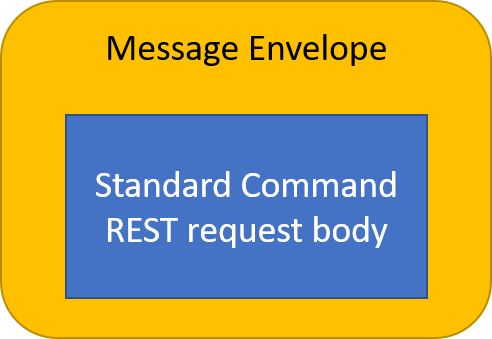
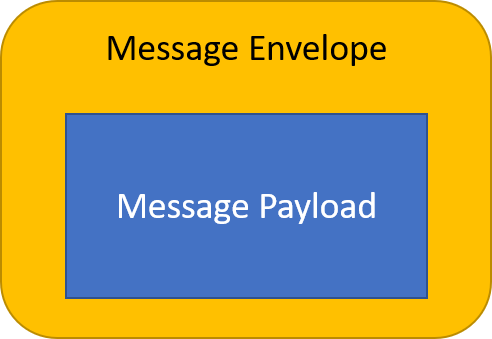
feat(adr): rewrite of the ADR with input from early reviews
addressed the internal/external message bus issue

cleaned up message envelope vs payload issue

diff --git a/docs_src/design/adr/0023-North-South-Messaging.md b/docs_src/design/adr/0023-North-South-Messaging.md
@@ -2,114 +2,223 @@
 
 ## Status
 
-** Proposed **
+**Proposed**
 (as of 12/21/21)
 
 ## Context and Proposed Design
 
-Today, data flowing from sensors/devices (the "southside") through EdgeX to enterprise applications, databases and cloud-based systems (the "northside") can be accomplished via REST or Message bus.  That is, sensor or device data collected by a device service can be sent via REST or message bus to core data.  Core data then relays the data to application services via message bus (when the device service sends data via REST to core data), but the sensor data can also be sent directly from device services to application services via message bus (by passing core data).  The message bus is implemented via Redis Pub/Sub (default) or via MQTT.  From the application services, data can be sent to northside endpoints in any number of ways – including via MQTT.
+Today, data flowing from sensors/devices (the “southside”) through EdgeX to enterprise applications, databases and cloud-based systems (the “northside”) can be accomplished via REST or Message bus.  That is, sensor or device data collected by a device service can be sent via REST or message bus to core data.  Core data then relays the data to application services via message bus, but the sensor data can also be sent directly from device services to application services via message bus (by passing core data).  The message bus is implemented via Redis Pub/Sub (default) or via MQTT.  From the application services, data can be sent to northside endpoints in any number of ways – including via MQTT.
 
 So, in summary, data can be collected from a sensor or device and be sent from the southside to the northside entirely using message bus technology when desired.
 
 !!! Note
     The message bus may also be implemented in Zero MQ but with some limitations.  As Zero MQ is being deprecated in EdgeX, it will not be considered further in this ADR.
 
-Communications from a 3rd party system (enterprise application, cloud application, etc.) to EdgeX in order to acuate a device or get the latest information from a sensor is accomplished via REST.  The 3rd party system makes a REST call of the command service which then relays a request to a device service also using REST.  There is no built in means to make a message-based request of EdgeX or the devices/sensors it manages.
+Today, communications from a 3rd party system (enterprise application, cloud application, etc.) to EdgeX in order to acuate a device or get the latest information from a sensor is accomplished via REST.  The 3rd party system makes a REST call of the command service which then relays a request to a device service also using REST.  There is no built in means to make a message-based request of EdgeX or the devices/sensors it manages.
 
 In a future release of EdgeX, there is a desire to allow 3rd party systems to make requests of the southside via message bus.  Specifically, a 3rd party system will send a command request via message to the command service via the allowed message bus implementations (which could be MQTT or Redis Pub/Sub today).  The command service would then relay the message request via message bus to the managing device service.  (The command service would also perform any translations on the request as it does for REST requests today.) The device service would use the message to trigger action on the device/sensor as it does when it receives a REST request today and respond via message bus back to the command service.  In turn, the command service would respond to the 3rd party system via message bus.
 
-The reasons why 3rd party systems would like to use a message bus (over REST) communications to make actuation commands include the following:
+### Core Command as Message Bus Bridge
 
-- message bus communications can allow for full asynchronous communications.
-- as services may die, a message bus provides for resilience - allowing messages to queue until a receiving service returns
-- allow for the message bus to be implemented in a variety of message protocols (MQTT, Redis Pub/Sub, AMQP, etc.) - each offering pros/cons that may be suitable to an adopter
-- more easily allow for additional receiving services to be added to consume the messages and improve scale
-- to take advantage of QoS capability (guarantee of delivery) in some message bus implementations (when using a message broker offering quality of service on the message exchange)
-
-!!! Alert
-    Within EdgeX today, the go-mod-messaging Go Lang module provides convenience to access and communicate with the EdgeX message bus.  But it is only for Go and, when used, tightly couples the client user to EdgeX.  As an example eKuiper uses the EdgeX go-mod-messaging module and therefore somewhat couples eKuiper to EdgeX in this instance.  Should we be allowing off-box (non EdgeX services and applications) use of the go-mods (in this case messaging) and should off-box (non EdgeX services and applications) even be allowed to connect to the EdgeX internal message bus.  Use of the EdgeX modules (and potential tight coupling to EdgeX) is left as a decision for the adopter.  To address the internal message bus concern, separate topics (and even buses) can be used for external vs internal communications (see more below).
-
-### Design
-
-The command service requires the means to subscribe to the EdgeX or external (as a 3rd party may want to use their message bus to send commands) message bus.  It would use the messaging client (go-mod-messaging) to create a new MessageClient, connect to a message bus, and subscribe to a configured message topic.
-
-The command service would also publish messages to device service topics using the go-mod-messaging MessageClient.  It would relay any command request to a designated topic for the device service which would be subscribed to the topic.
-
-Likewise, the device services use the messaging client (go-mod-messaging for Go services and C alternative for C services) to create a new MessageClient, connect to the message bus and subscribe to configured message topics to receive actuation messages from the command service.  Note, the device services already have the EdgeX message bus client, so this is not a change - just a new use of the same client.
-
-Because any actuation request may require a response on the part of EdgeX, the command service must provide the means to receive an optional response message from the device services and publish a response back to the 3rd party caller via message bus as well.
-
-The command message request messages should contain a correlation identifier which would be added to any response so that the 3rd party system would know to associate the responses to the original request.
-
-The device service message command subscription, response publishing and general handling should be implemented in the SDKs versus individually in the device services.
-
-!!! Note
-    Message responses are not guaranteed (on the part of the device service to the command service or from the command service back to the originating command requester).  Both the command service and the original 3rd party system making the command request bear the burden to manage timeouts (and possibly resending the request) if there is no response.  In the case of core command, a "timeout" response would be relayed back to the 3rd party system.
+The core command service will serve as the EdgeX entry point for external, north-to-south message bus requests to the south side.
 
 ![image](command-msg.png)
 
+3rd party systems should not be granted access to the EdgeX internal message bus.  Therefore, in order to implement north to south communications via message bus, the command service needs to take messages from the 3rd party or external message bus and pass them internally onto the EdgeX internal message bus where they can eventually be routed to the device services and then on to the devices/sensors (southside).
+
+In reverse, response messages from the southside will also be sent through the internal EdgeX message bus to the command service where they can then be bridged to the external message bus and respond to the 3rd party system requester.
+
+!!! Note
+    If command did not serve as this external to internal (and vice versa) bridge, then each device service would need to be able to serve as their own external message bus to internal message bus bridge which is inefficient.  Also note that eKuiper is allowed access directly to the internal EdgeX message bus.  This is a special circumstance of 3rd party external system communication as eKuiper is a sister project that is deemed the EdgeX reference implementation rules engine.  In future releases of EdgeX, even eKuiper may be routed through an external to internal message bus bridge for better decoupling and security.
+
+Any protocol translation or relay service (REST-MQTT, MQTT-REST, REST-REST, MQTT-MQTT) should pass along authentication tokens.
+
+### Message Bus Subscriptions and Publishing
+
+The command service will require the means to publish messages to device services via the EdgeX message bus (**internal message bus**).  It would use the messaging client (go-mod-messaging) to create a new MessageClient, connect to the message bus, and publish to designated request message topics (see topic configuration below).
+
+The command service will also need to subscribe to the EdgeX message bus (**internal message bus**) in order to receive responses from the device services after a request by message bus has been made.  Again, core command will use the go-mod-messaging MessageClient to subscribe and receive response messages from the device services.
+
+In a similar fashion, device services will need to both subscribe and publish to the EdgeX message bus (**internal message bus**) to get command requests and push back any responses to the command service.  Go lang device services will, like the command service, use the go-mod-messaging module and MessagingClient to get command requests and send command responses to and from the EdgeX message bus.  C based device services will use a C alternative to subscribe and publish to the EdgeX message bus (**internal message bus**)
+
+The command service will also need to subscribe to 3rd party message bus (**external message bus**) in order to get command requests from the 3rd party system.  The command service will then relay command requests on to the appropriate device service via the internal message bus (forming the message bus to message bus bridge).  Likewise, the command service will accept responses from the device services on the EdgeX message bus (**internal message bus**) and then publish responses to the 3rd party system via the 3rd party message bus (**external message bus**).
+
 ### Message Structure
 
-The messages to the command service and those relayed to the device service would mimic their REST alternatives.  The difference is that the HTTP REST requests:
+In REST based command requests (and responses), the HTTP header is used to pass important information such as the path or target of the request, the HTTP method type (indicating a GET or PUT request), the correlation id and more.  On HTTP responses, the HTTP header provides the information such as the response code (ex: 200 for OK).  The body or payload of the HTTP message contains the request details (such as parameters to a device PUT call) or response information (such as events and associated readings from a GET call).  
 
-- have a path that contains the target device and command name
-- are made via SET or PUT methods signaling get or set actions on the device.
+In a message bus world, there is no HTTP header to carry request or response details.  Therefore, the message must be organized into an `envelope` and `payload` section to serve just like the HTTP header and body do in HTTP request/response messages.
 
-The message bus and the messages on the bus need this additional information. To address this, the command requests must be embedded in a "wrapper message" structure that would contain the additional elements that would be present in the HTTP request messages.
-
-!!! Info
-    Note that the EdgeX message bus client would include the correlation id in the message header automatically.
+The message topic names will, in many ways, serve as the HTTP paths and methods do in helping to specify the device receiver of any command request (see topic names below)
 
 ![image](command-msg-structure.png)
 
-Specifically, the message structure (the body) would look something like the following:
+#### Message Envelope
 
-``` json
+Messages are just JSON text.  The outer most JSON object represents the message `envelope` for command request and response messages.  The `envelope` will contain a correlation identifier property which will be added to any relayed request message as well as the response message envelope so that the 3rd party system will know to associate the responses to the original request.
+
+The `envelope` will also contain the API version (something provided in the HTTP path when using REST).
+
+Command requests in HTTP may also contain ds-pushevent and ds-returnevent parameters (for GET commands).  These will be optionally provided key/value pairs represented in the message `envelope`.
+
+``` JSON
 {
-"method": "SET",
-"deviceName": "sensor01",
-"command": "command01",
-"request":
-    {
-        "requestId": "e6e8a2f4-eb14-4649-9e2b-175247911369",
-        "AHU-TargetTemperature": "28.5",
-        "AHU-TargetBand": "4.0",
-        "AHU-TargetHumidity": {
-        "Accuracy": "0.2-0.3% RH",
-        "Value": 59
-    }
+    "Correlation-ID": "14a42ea6-c394-41c3-8bcd-a29b9f5e6835",
+    "API":"V2",
+    "ds-pushevent":"yes",
+    "ds-returnevent":"yes",
+    ...
 }
 ```
 
-Note, this message structure may not be complete as is meant to represent the general structure.  Additional fields may be added in order to align with the HTTP message structure.
+#### Message Payload
 
-Response messages would be similarly wrapped so as to preserve the request id - if nothing else.  On many standard requests, the response would contain an event with one or more readings.
+The **request** message `payload` to the command service and those relayed to the device service would mimic their HTTP/REST request body alternatives.  The `payload` provides details needed in executing the command at the south side.
 
-``` json
+In the example GET and PUT messages below, note the `envelope` wraps or encases the message `payload`.  The payload may be empty (as is typical of GET requests).
+
+``` JSON
 {
-"response":
+    "Correlation-ID": "14a42ea6-c394-41c3-8bcd-a29b9f5e6835",
+    "API":"v2",
+    "ds-pushevent":"yes",
+    "ds-returnevent":"yes",
+    "payload": 
+    {
+    }
+}
+
+{
+    "Correlation-ID": "14a42ea6-c394-41c3-8bcd-a29b9f5e6835",
+    "API":"v2",
+    "payload": 
+    {
+        "AHU-TargetTemperature": "28.5",
+        "AHU-TargetBand": "4.0",
+        "AHU-TargetHumidity": {
+            "Accuracy": "0.2-0.3% RH",
+            "Value": 59
+        }
+    }
+}
+
+```
+
+The **response** message `payload` would contain the response from the south side, which is typically EdgeX event/reading objects (in the case of GET requests) but would also include any status code, error or service response details.
+
+Example response messages for a GET and PUT request are shown below.  Again, note that the message `envelope` wraps the response `payload`.
+
+``` JSON
+{
+    "Correlation-ID": "14a42ea6-c394-41c3-8bcd-a29b9f5e6835",
+    "apiVersion": "v2",
+    "payload": 
+    {
+    "requestId": "e6e8a2f4-eb14-4649-9e2b-175247911369",
+    "statusCode": 0,
+    "message": "string",
+    "event": {
+        "apiVersion": "string",
+        "id": "3fa85f64-5717-4562-b3fc-2c963f66afa6",
+        "deviceName": "string",
+        "profileName": "string",
+        "created": 0,
+        "origin": 0,
+        "readings": [
+            "string"
+            ],
+        "tags": {
+            "Gateway-id": "HoustonStore-000123",
+            "Latitude": "29.630771",
+            "Longitude": "-95.377603"
+            }
+        }
+    }
+}
+
+{
+    "Correlation-ID": "14a42ea6-c394-41c3-8bcd-a29b9f5e6835",
+    "apiVersion": "v2",
+    "payload": 
     {
         "requestId": "e6e8a2f4-eb14-4649-9e2b-175247911369",
-        "apiVersion": "v2",
         "statusCode": 0,
         "message": "string"
     }
 }
+
 ```
 
-Note, serving as a relay of the request, the command service should pass along authentication tokens provided in the original request.
+### Topic Naming
+
+![image](topic-naming.png)
+
+#### 3rd party system topics
+
+The 3rd party system or application must publish command requests messages to its own message bus (**external message bus**) and subscribe to responses from the same.  Messages topics would typically follow a standard such as:
+
+- Publishing command request topic: edgex/command/request/<device-name>/<command-name>/<method>
+- Subscribing command response topic: edgex/command/response/#
+
+!!! Note
+    Because EdgeX can suggest but not dictate the naming standard for 3rd party message bus topics, these names are representative for clarity, but not required.
+
+#### command service topics
+
+The command service must subscribe to the request topics of the 3rd party (**external message bus**) message bus to get command requests, publish those to a topic to send them to a device service via the EdgeX message bus (**internal message bus**), subscribe to response messages on topics from device services (**internal**), and then publish response messages to a topic on the 3rd party message bus (**external**).  Message topics for the command service would follow the following standard:
+
+- Subscribing 3rd party command request topics: edgex/command/request/#
+- Publishing device service request topic: edgex/command/request/<device-service>/<device-name>/<command-name>/<method>
+- Subscribing command response topics: edgex/command/response/#
+- Publishing 3rd party command response topic: edgex/command/response/<device-name>/<command-name>/<method>
+
+!!! Note
+    Because EdgeX can suggest but not dictate the naming standard for 3rd party message bus topics, the 3rd party topic names are representative for clarity, but not required.
+
+#### device service topics
+
+The device services must subscribe to the EdgeX command request topic (**internal message bus**) and publish response messages to an EdgeX command response topic.  The following naming standard will be applied to these topic names:
+
+- Subscribing command request topic: edgex/command/request/#
+- Publishing command response topic: edgex/command/response/<device-service>/<device-name>/<command-name>/<method>
 
 ### Configuration
 
-The configuration or the command service must provide the details in order to subscribe to command messages from any 3rd party system and publish to a response topic.  The subscription configuration would be similar to how core data is configured to subscribe to messages from any device service and publish to topics to get messages to application services.  However, the command service will actually need to have two sets of subscription and two sets of publishing topics.
+Both the EdgeX command service and the device services must contain configuration needed to connect to and publish/subscribe to messages from topics on the EdgeX message bus (**internal**).  This includes configuration to access the message bus when secure or insecure.
 
-The command service would subscribe to any command topic ("edgex/command/request/#") to receive requests from the 3rd party system.  3rd party systems would publish more specifically to a topic that includes the device name and command names (see image below).  The command service must then relay these messages (via publish) to the device service command actuation topics.
+The command service must also be provided configuration to connect to the 3rd party message bus (**external**).  Because the communications may be done in a secure or insecure fashion, the core command service will need to be provided access to the 3rd party message bus (**external**)
 
-As each device service will have a topic assigned to it, the device service name, device name, and command name will be added to the destination topic ("edgex/command/request/<device-service>/<device-name>/<command-name>") when command relays the actuation request messages to device services.
+Similar to EdgeX application services, the command service will have access to an external message bus capability to get command requests and send 3rd parties a response.  This will require the command service to have two message queue configuration settings (internal and external).
 
-The command service must then subscribe to another topic ("edgex/command/response/<device-service>/<device>/<command-name>") to receive actuation responses from the device services.  It then relays those responses on to the 3rd party apps by publishing those responses to a response topic ("edgex/command/response/<device>/<command-name>").
+#### command service configuration
 
-![image](command-service-topics.png)
+Example command service configuration is provided below.
+
+``` toml
+[MessageQueue]
+    [InternalMessageQueue]
+    Protocol = "redis"
+    Host = "localhost"
+    Port = 6379
+    Type = "redis"
+    AuthMode = "usernamepassword"  # required for redis messagebus (secure or insecure).
+    SecretName = "redisdb"
+    [ExternalMessageQueue]
+    Protocol = "redis"
+    Host = "localhost"
+    Port = 6378
+    Type = "redis"
+    AuthMode = "usernamepassword"  # required for redis messagebus (secure or insecure).
+    SecretName = "redisdb"
+ExternalSubscribeRequestTopic = “edgex/command/request/#”
+InternalPublishRequestTopicPrefix = "edgex/command/request/"  # <device-service>/<device-name>/<command-name>/<method> will be added to this publish topic prefix
+InternalSubscribeResponseTopic = “edgex/command/response/#”
+ExternalPublishResponseTopicPrefix = “edgex/command/response/"  # /<device-name>/<command-name>/<method> will be added to this publish topic prefix
+```
+
+#### device service configuration
+
+Example device service configuration is provided below.
 
 ``` toml
 [MessageQueue]
@@ -119,52 +228,44 @@ Port = 6379
 Type = "redis"
 AuthMode = "usernamepassword"  # required for redis messagebus (secure or insecure).
 SecretName = "redisdb"
-SubscribeCommandRequestTopic = "/edgex/command/request/#"
-PublishCommandRequestTopicPrefix = "/edgex/command/request/ " # /<device-service>/<device-name>/<command-name> will be added to this Publish Topic prefix
-SubscribeCommandResponseTopic = "/edgex/command/response/#"
-PublishCommandResponseTopicPrefix = "/edgex/command/response/" # /<device-name>/<command-name> will be added to this Publish Topic prefix
+SubscribeRequestTopic = "edgex/command/request/#"
+PublishResponseTopicPrefix = “edgex/command/response/"  # <device-service>/<device-name>/<command-name>/<method> will be added to this publish topic prefix
 ```
 
-Device services must similarly be configured for subscribing to actuation commands and responding to them by publishing to the response topic.
-
-``` toml
-[MessageQueue]
-Protocol = "redis"
-Host = "localhost"
-Port = 6379
-Type = "redis"
-AuthMode = "usernamepassword"  # required for redis messagebus (secure or insecure).
-SecretName = "redisdb"
-SubscribeCommandRequestTopic = "/edgex/command/request/<device-service>/#"
-PublishCommandResponseTopicPrefix = "/edgex/command/response/<device-service>/" # /<device-name>/<command-name> will be added to this Publish Topic prefix
-```
-
-Questions:
+## Questions
 
 - Do we need separate topics for all the devices or would one on the device service suffice?
-  - Ans:  we have defined the deviceName in the payload, so one topic should be sufficient for Device Service- edgex/request/actuate/<device-service>
+    
+    - Ans:  we have defined the deviceName in the payload, so one topic should be sufficient for Device Service- edgex/command/request/<device-name>...
+
 - Would clients (non EdgeX services and applications) want to get a list of available commands via message (instead of calling REST)?
-  - Ans:  this is a valid question and could be provided via later additions to the command service (or other service like metadata) in the future.  It does not have to be tackled immediately.  
-- Should the command service be allowed to subscribe to the external message broker from a 3rd party? If it subscribes to the EdgeX message bus (internally) only, we might need additional services to relay the data to EdgeX message bus from the external source (depending on security and accessibility to the external message bus).
-- Dynamic configuration of the message subscription is not a user friendly operation today (requiring configuration changes). We might want to think about creating additional APIs for Adding/Updating/Deleting/Query the external subscription (and store them to the RedisDB).
+
+    - Ans:  this is a valid question and could be provided via later additions to the command service (or other service like metadata) in the future.  It does not have to be tackled immediately.  
+
+- Dynamic configuration of the message subscription is not a user friendly operation today (requiring configuration changes).
+
+    - Ans:  We might want to think about creating additional APIs for Adding/Updating/Deleting/Query the external subscription (and store them to the RedisDB).
+
 - Is it acceptable for more than one response to be published by the device service on the same correlation ID? Eg, send back "Acknowledged", then "Scheduled", then "Starting", then "Done" statuses?
-  - Ans:  No, the correlation id has a life span to/from the initial requester to the response back to the requester.   
+    
+    - Ans:  No, the correlation id has a life span to/from the initial requester to the response back to the requester.
+
 - Would it make sense to echo the command name into the response, as a reality check?
-  - Ans:  adds length and complexity to the response today that one could say is handled by using the correlation id to track it to the original request.  Can revisit if necessary.
+    - Ans: solved via topic naming
+
 - Would sending/receiving binary data (e.g. CBOR) be supported in this north-south message implementation?
-  - Ans:  today, command servcie and device services do not support CBOR operations.  This feature would be explored only when these services support binary/CBOR payloads.
+    
+    - Ans:  today, command service and device services do not support CBOR operations.  This feature would be explored only when these services support binary/CBOR payloads.
+
 - Use of the message bus communications (by the non-EdgeX 3rd party service or application) would bypass the API Gateway.
-  - Ans:  it would.  If secure communications is desired over message bus, we would need to secure our message bus communications which is being explored outside of this ADR and in relation to existing message bus communications.
+
+    - Ans:  it would. Pretty much every MQTT broker has a way to do this, where the most common are username/password and certificate-based mutual-auth TLS. SPIFFE/SPIRE is a good way to distribute such certificates if one can manage the requirements for certificate rotation on a continual basis. Otherwise, username/password will probably end up being used (with server-side TLS if the broker is off-box)
 
 !!! INFO
         This ADR does not handle securing the message bus communications between services.  This need is to be covered universally in an upcoming ADR.
 
 ## Consequences
 
-The implementation of north-to-south message bus communications could be accomplished in phases
-
-1. Command service to receive and respond via message bus
-2. Device services in Go receive and respond via message bus
-3. Device services in C receive and respond via message bus
-
 ## References
+
+- [Core Command API](https://app.swaggerhub.com/apis/EdgeXFoundry1/core-command/2.1.0)
